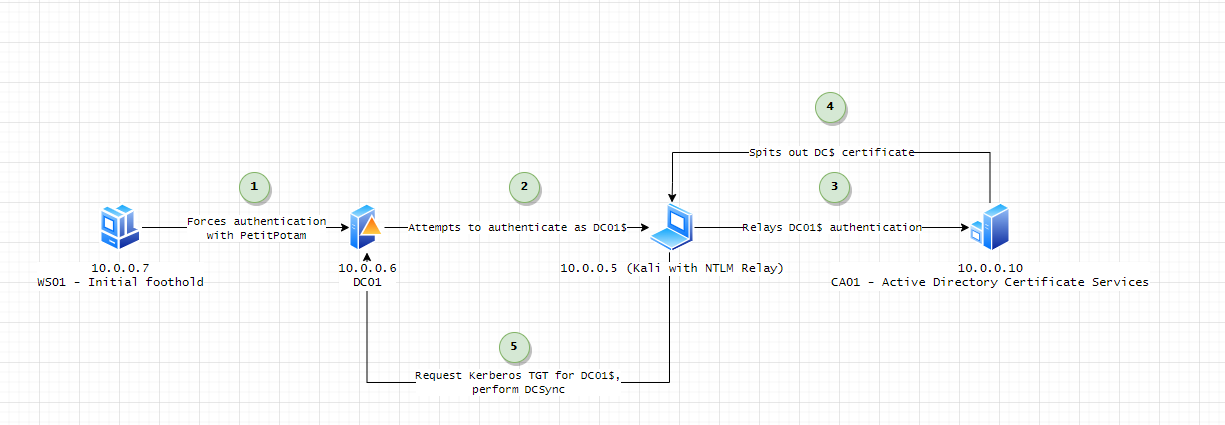
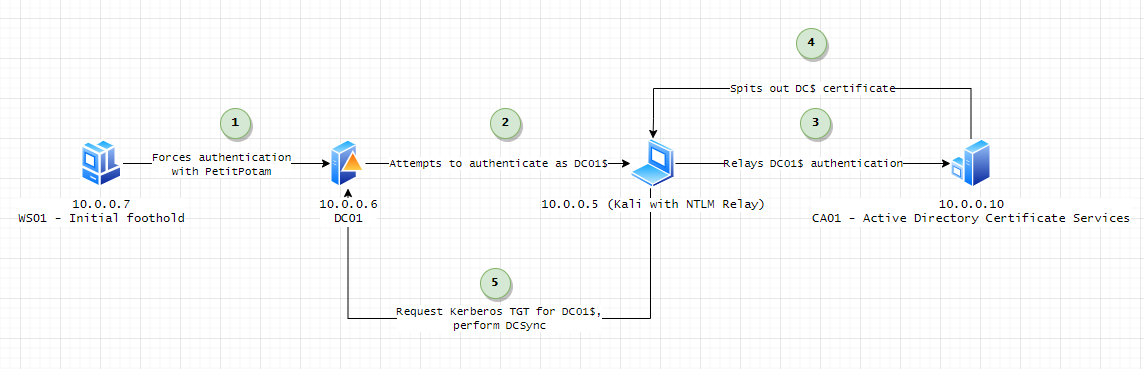
GitBook: [#1830] No subject

diff --git a/offensive-security-experiments/active-directory-kerberos-abuse/adcs-+-petitpotam-ntlm-relay-obtaining-krbtgt-hash-with-domain-controller-machine-certificate.md b/offensive-security-experiments/active-directory-kerberos-abuse/adcs-+-petitpotam-ntlm-relay-obtaining-krbtgt-hash-with-domain-controller-machine-certificate.md
@@ -28,9 +28,9 @@ Below provides a high level overview of how the attack works:
 8. Use target DC's computer account TGT to perform [DCSync](dump-password-hashes-from-domain-controller-with-dcsync.md) and pull the NTLM hash of `krbtgt`;
 9. Use `krbtgt` NTLM hash to create [Golden Tickets](kerberos-golden-tickets.md) that allow you to impersonate any domain user, including Domain Admin.
 
-Below visualizes the concept:
+Below graphic visualizes the concept:
 
-![](<../../.gitbook/assets/image (1085).png>)
+![PetitPotam: NTLM Relay to AD CS flow diagram](<../../.gitbook/assets/image (1084).png>)
 
 ## Domain Takeover
 
